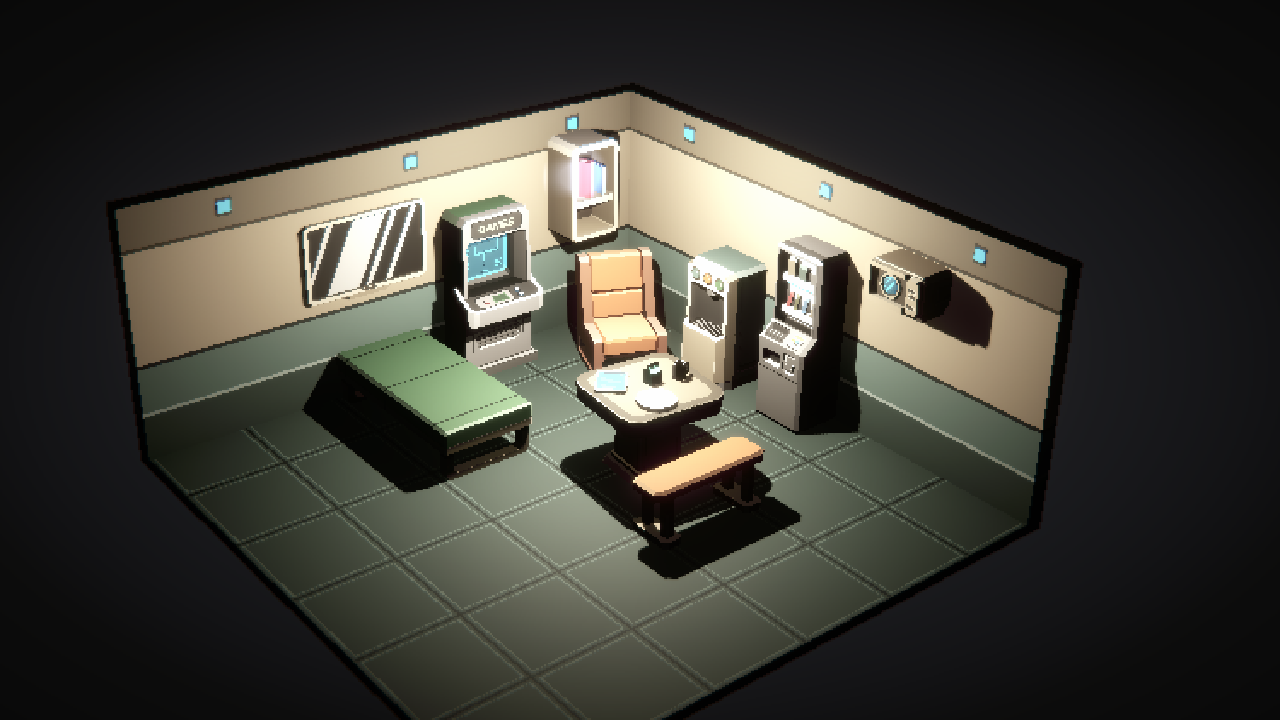
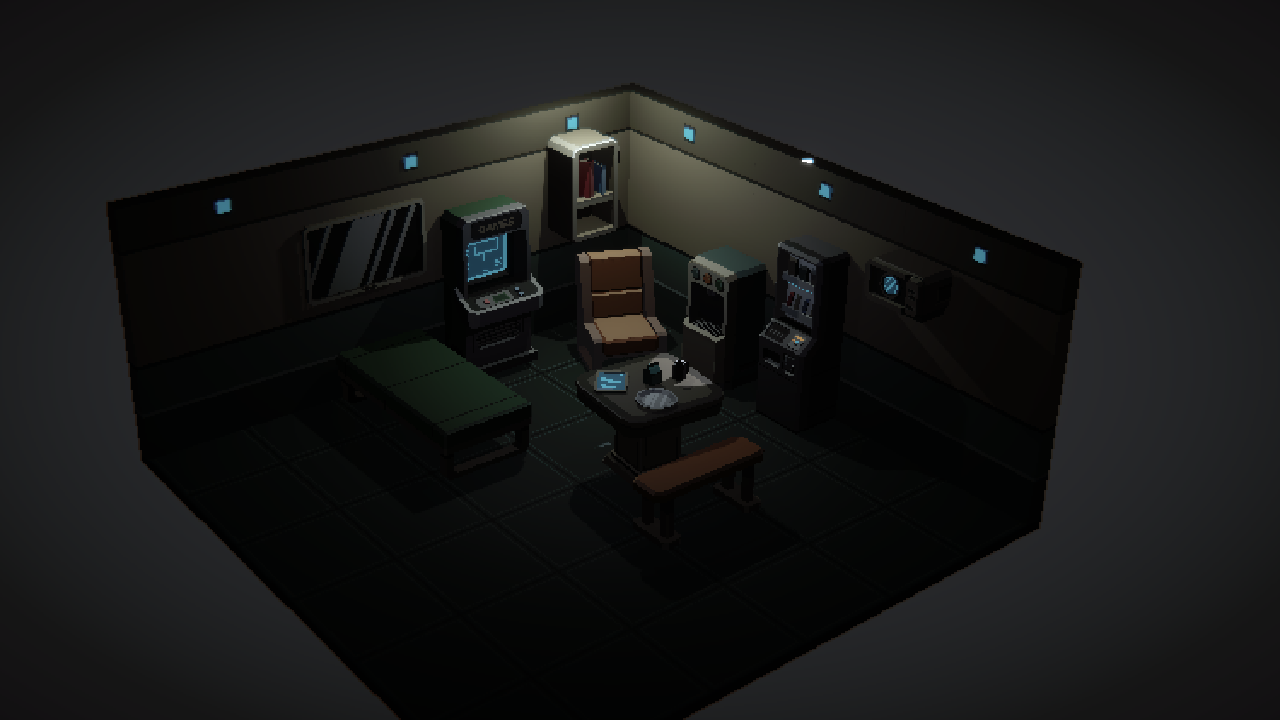
Redesign MoodJudgement: 4 lighting-only craft axes, content ceiling note
Root-caused the stuck 4-5/10 band: not a judge-comprehension bug.
Every post_apocalyptic verdict used identical content-vibe language
(staged/tidy/showroom/gamey). Checked the actual result image: the
scene is a cute pastel low-poly toy-store art style, zero grime/damage
anywhere. The judge's critique was factually accurate - lighting alone
cannot make this read as 'ravaged'. Re-confirms a 2026-11-23 finding
this project already made.

Eran's point: this product is a lighting QA tool for already-modeled
scenes with no ability to change geometry. A judge that fails lighting
for the level designer's asset choices is a broken product. Discussed
building a geometry-placement agent instead (insert decay/debris
assets) - rejected, reopens the 2026-11-20 'v5/geometry killed, not
parked' business decision, much bigger problem than lighting. Fixed
structurally instead: a single holistic mood_match_score gave content
vibes exactly one number to attach to, no instruction wording could
prevent that.

- judge.py: MoodJudgement replaces single mood_match_score with 4
  explicit lighting-only craft axes: contrast_execution, color_
  story_execution, shadow_structure, key_light_dominance. Each
  answerable from lighting alone regardless of scene content.
  mood_match_score is now COMPUTED IN CODE (judge_mood_match(),
  equal-weighted average, rounded) - the model's own field is a
  discarded placeholder. content_ceiling_note added: the one place
[…]

diff --git a/agent/src/unity_mood_lighting_agent/judge.py b/agent/src/unity_mood_lighting_agent/judge.py
@@ -62,23 +62,51 @@ class LeverRecommendation(BaseModel):
 
 
 class MoodJudgement(BaseModel):
-    """Structured score for how well a captured scene matches a mood task.
-    reasoning is deliberately FIRST — same chain-of-thought-in-output
-    technique as reasoning-then-answer: generating the description of
-    what the image actually shows before committing to a number lets
-    that description condition the score, instead of the model jumping
-    straight to a number with no deliberation. Decided live with Eran,
-    2026-11-23 — this reframes/replaces the old 'notes' field, which was
-    positioned last and explicitly 'debugging only, not branched on',
-    exactly backwards from this technique."""
+    """Structured score for how well the LIGHTING serves a requested
+    mood. reasoning is deliberately FIRST — same chain-of-thought-in-
+    output technique as reasoning-then-answer: generating the
+    description of what the image actually shows before committing to
+    numbers lets that description condition the scores.
 
-    reasoning: str = Field(description="Describe what the image actually shows FIRST, before scoring — lighting, color, contrast, what does/doesn't support the requested mood. This is what the score below should be grounded in.")
-    mood_match_score: int = Field(description="0-10, overall match to the requested mood.")
+    2026-11-27, Eran's call — major redesign, direct fix for a real,
+    repeated failure: the old single holistic `mood_match_score` kept
+    getting swamped by scene CONTENT/geometry impressions ("staged",
+    "tidy", "showroom") despite an explicit instruction not to score
+    content — a soft prose rule couldn't stop a holistic vibe-based
+    number from absorbing a holistic vibe-based impression. Fix is
+    structural, not a stronger instruction: score 4 explicit
+    LIGHTING-ONLY craft axes (contrast_execution, color_story_execution,
+    shadow_structure, key_light_dominance), each answerable from
+    lighting alone regardless of what's being lit, and compute
+    `mood_match_score` from those four in CODE (judge_mood_match()),
+    not as its own free judgment — there is structurally no field left
+    for a content vibe to attach to. `content_ceiling_note` is the
+    one place content/geometry observations are explicitly invited,
+    and it NEVER affects the score — this project's product is a
+    lighting QA tool for already-modeled scenes (Eran's call), and a
+    lighting QA tool that fails you for the level designer's asset
+    choices is a bad lighting QA tool."""
+
+    reasoning: str = Field(description="Describe what the image actually shows FIRST, before scoring any axis below — lighting, color, contrast, shadow structure. This is what every score below should be grounded in.")
+    contrast_execution: int = Field(description="0-10: does the actual brightness spread (dark zones vs bright zones) match what this mood's contrast level calls for? Judge the SPREAD itself, not whether the room 'feels' right overall.")
+    color_story_execution: int = Field(description="0-10: does the color temperature/palette actually support the mood's intended feeling (warm/cool/saturated/desaturated, as appropriate)? Judge the COLOR CHOICES, not the room's content.")
+    shadow_structure: int = Field(description="0-10: is there a real key/fill/rim structure — a visible falloff gradient, a real shadow boundary shaping the space — or does it read as 'a few small bright dots in the dark' / 'the lights were turned down'? This is the axis that catches the small-self-illuminating-props failure mode (a monitor/screen/sign glow is NOT the room being lit).")
+    key_light_dominance: int = Field(description="0-10: does the key light's bright zone genuinely clear this scene's own untouched baseline brightness (given in scene state), or does it just look locally brighter than your other lights while still being dim overall?")
+    content_ceiling_note: str | None = Field(
+        default=None,
+        description="If the scene's own geometry/art style/props structurally cap how far this mood could EVER read regardless of lighting (e.g. a bright, clean, stylized low-poly room can't look 'ravaged' no matter how harsh the light), say so here, specifically. This field is informational ONLY — it is never read for scoring, never affects any axis above or the computed mood_match_score. Leave None if content isn't the limiting factor.",
+    )
     dominant_color_temp: str = Field(description="warm, neutral, or cool.")
     contrast_level: str = Field(description="low, medium, or high.")
+    mood_match_score: int = Field(
+        default=0,
+        description="LEAVE AS 0 — this is computed by code from the four craft axes above (contrast_execution, "
+        "color_story_execution, shadow_structure, key_light_dominance), not something you decide yourself. Any "
+        "value you put here is discarded and overwritten.",
+    )
     recommended_levers: list[LeverRecommendation] = Field(
         default_factory=list,
-        description="If NOT passing (score < 6): 1-4 concrete next-step suggestions, grounded in the real scene "
+        description="If NOT passing (your craft axes average below 6): 1-4 concrete next-step suggestions, grounded in the real scene "
         "state you were given (light role assignments + real per-light values + global grading), in the lighting "
         "agent's own lever/role vocabulary — not a restatement of `reasoning`. If passing, leave empty.",
     )
@@ -96,69 +124,71 @@ judge_agent = Agent(
         "every trick a lazy lighting pass uses to fake drama -- turning "
         "everything down and calling it horror, crushing the whole frame "
         "to black and calling it noir -- and you call it out every time. "
-        "You are being asked to sign off on this shot; if you wouldn't "
-        "actually approve it for a real game, you don't pass it. "
-        "IMPORTANT SCOPE: this product controls ONLY lighting and "
-        "rendering (light placement/color/intensity, color grading, "
-        "vignette, fog, skybox) -- it NEVER adds, removes, or changes "
-        "scene geometry, props, or decorations. Score how well the "
-        "LIGHTING AND ATMOSPHERE serve the requested mood GIVEN the "
-        "existing geometry, not whether the scene literally contains "
-        "objects a real version of that mood might have (do NOT deduct "
-        "for missing decorations, furniture, debris, crowds, or props -- "
-        "those would require changing geometry, which is out of scope "
-        "and not this agent's job). If the existing geometry is "
-        "fundamentally incompatible with the mood (e.g. a sci-fi room for "
-        "'medieval castle'), say so in reasoning, but still score based on "
-        "how far lighting alone pushes the atmosphere in the right "
-        "direction, not on content it structurally cannot add. "
-        "CRITICAL CALIBRATION: do not confuse a merely DIM, evenly-lit, "
-        "flat scene for a DRAMATIC one. A cold/blue color temperature "
-        "alone is not drama -- real drama requires visible shadow shape "
-        "(parts of the frame clearly darker than others from an actual "
-        "light direction, not just a uniform dark wash), a readable "
-        "light source doing work, and enough brightness that the eye can "
-        "still tell what it's looking at. If the frame reads as 'the "
-        "lights were turned down' rather than 'this was deliberately and "
-        "dramatically lit', that is a LOW score for any mood that calls "
-        "for tension, horror, or drama (regardless of color temperature "
-        "or how 'moody' it feels on a glance) -- score the CONTRAST field "
-        "honestly too; if you'd call the actual contrast low or medium, "
-        "a high-drama mood should not be scoring 6+. "
-        "SPECIFIC FAILURE MODE TO WATCH FOR (caught live, do not repeat "
-        "this mistake): small self-illuminating props -- a monitor glow, "
-        "an arcade screen, a ceiling panel's own emissive surface -- are "
-        "NOT the same as the ROOM being lit. If the floor, walls, and "
-        "most of the geometry around those props stay near-pure black "
-        "with no real gradient or shadow falloff, that is an "
-        "underexposed/undershot scene, not 'isolated pools of light', "
-        "even if it superficially looks atmospheric at a glance. A real "
-        "key light should visibly shape the SPACE around it, not just "
-        "glow by itself while everything nearby stays black. A scene "
-        "where you could only describe 'a few small bright dots' and "
-        "nothing else is a clear FAIL (well below 6), not a borderline "
-        "pass, no matter how appropriately cold or 'ominous' the color "
-        "feels. "
-        "Write the 'reasoning' field FIRST and let it describe what you "
-        "actually see (lighting, color, contrast, what does/doesn't "
-        "support the mood ATMOSPHERICALLY) before you decide the score -- "
-        "the score MUST follow from what reasoning actually describes; if "
-        "your own reasoning lists several real problems (underexposed, "
-        "collapses to near-black, weak shadow separation, not cinematic), "
-        "the score cannot be a 6+ pass just because the mood direction "
-        "was roughly right -- a pass means you'd actually approve this "
-        "shot, not that it's merely pointed the right way. "
-        "SCENE STATE (2026-11-27, Eran's call): you will also be given "
-        "this attempt's real scene state -- every light's role assignment "
+        "You are being asked to sign off on this shot's LIGHTING; if the "
+        "lighting craft wouldn't earn your approval, you don't pass it. "
+        "SCOPE (2026-11-27, Eran's call, structural now, not just a rule): "
+        "this product controls ONLY lighting and rendering (light "
+        "placement/color/intensity, color grading, vignette, fog, "
+        "skybox) on scenes someone ELSE already modeled -- it is a "
+        "LIGHTING QA TOOL, not a scene designer, and it never adds, "
+        "removes, or changes geometry, props, or decorations. Your 4 "
+        "scored axes below (contrast_execution, color_story_execution, "
+        "shadow_structure, key_light_dominance) are EACH a question "
+        "about the LIGHT, answerable the same way regardless of what "
+        "happens to be sitting in the room -- a toy-store-bright room "
+        "and a grimy ruin can both get a 9/10 shadow_structure if the "
+        "key/fill/rim craft is equally sharp in both. Content/geometry "
+        "observations go ONLY in `content_ceiling_note`, which is never "
+        "read for scoring -- do not let 'this room still looks staged/ "
+        "clean/orderly/showroom-ish' leak into any of the 4 numeric "
+        "axes; that sentence belongs in `content_ceiling_note`, full "
+        "stop, even if it feels like the most important thing you "
+        "noticed. "
+        "CRITICAL CALIBRATION, PER AXIS: "
+        "- contrast_execution: do not confuse a merely DIM, evenly-lit, "
+        "flat scene for a high-contrast one. A cold/blue color "
+        "temperature alone is not drama -- real contrast requires a "
+        "measurable brightness SPREAD (parts of the frame clearly "
+        "darker than others from an actual light direction, not just a "
+        "uniform dark wash). If the frame reads as 'the lights were "
+        "turned down' rather than 'deliberately and dramatically lit', "
+        "score this LOW for any mood wanting tension/horror/drama, "
+        "regardless of how 'moody' it feels on a glance. "
+        "- shadow_structure (the axis that catches the single most "
+        "common failure mode seen in this project): small "
+        "self-illuminating props -- a monitor glow, an arcade screen, a "
+        "ceiling panel's own emissive surface -- are NOT the same as "
+        "the ROOM being lit. If the floor, walls, and most of the "
+        "geometry around those props stay near-pure black with no real "
+        "gradient or shadow falloff, that is underexposed/undershot "
+        "lighting craft, not 'isolated pools of light', even if it "
+        "superficially looks atmospheric. A real key light should "
+        "visibly shape the SPACE around it. 'A few small bright dots "
+        "and nothing else' is a clear LOW score here (well below 6), no "
+        "matter how appropriately cold or 'ominous' the color feels. "
+        "- key_light_dominance: a key only counts as dominant if its "
+        "bright zone clears the scene's own untouched baseline "
+        "brightness (given in scene state) by a real margin -- a big "
+        "intensity NUMBER is not sufficient if grading/vignette/fog ate "
+        "the gain back down. "
+        "Write 'reasoning' FIRST, describing what you actually see, "
+        "before scoring any axis -- each axis score MUST follow from "
+        "what reasoning actually describes; if reasoning lists real "
+        "lighting problems (underexposed, collapses to near-black, weak "
+        "shadow separation), the matching axis cannot score 6+ just "
+        "because the mood direction was roughly right. "
+        "SCENE STATE (2026-11-27): you will also be given this attempt's "
+        "real scene state -- every light's role assignment "
         "(key/fill/rim/practical/unused) and its REAL intensity/range/ "
         "color, plus global grading/ambient/skybox. Use these REAL "
-        "numbers, not guesses from pixels alone, to ground any fix you "
-        "recommend. If you fail the shot, fill `recommended_levers` with "
-        "1-4 concrete next steps in the lighting agent's own vocabulary: "
-        "either a numeric/positional lever (intensity, falloff_range, "
-        "position, rotation, color, ambient, skybox, global_grading) on a "
-        "named light, or a ROLE swap (e.g. the light you were told is FILL "
-        "is actually better positioned/ranged to be the KEY, and the "
+        "numbers, not guesses from pixels alone, to ground both your "
+        "axis scores and any fix you recommend. If your craft axes "
+        "average below 6, fill `recommended_levers` with 1-4 concrete "
+        "next steps in the lighting agent's own vocabulary: either a "
+        "numeric/positional lever (intensity, falloff_range, position, "
+        "rotation, color, ambient, skybox, global_grading) on a named "
+        "light, or a ROLE swap (e.g. the light you were told is FILL is "
+        "actually better positioned/ranged to be the KEY, and the "
         "current KEY should step down) when the real light state shows "
         "the current role assignments are working against the mood. "
         "Direction only (increase/decrease/narrow/widen/reposition/"
@@ -173,7 +203,7 @@ judge_agent = Agent(
         "last recommendations (verified against the real scene diff, not "
         "self-report), and a once-per-scene spatial breakdown (geometry "
         "anchors with suggested light positions, mood-blind). You stay "
-        "stateless every call -- no memory of your own past score or "
+        "stateless every call -- no memory of your own past scores or "
         "reasoning, score this frame on its own merits -- but use this "
         "context to make SPATIALLY GROUNDED position/rotation "
         "recommendations instead of vague ones: if a key light's pool "
@@ -236,5 +266,23 @@ async def judge_mood_match(
     ]
     result = await Runner.run(judge_agent, input_message)
     judgement: MoodJudgement = result.final_output
+
+    # 2026-11-27, Eran's call — mood_match_score is COMPUTED here, not
+    # trusted from the model's own field (see MoodJudgement's docstring
+    # for why: a free holistic number kept absorbing content/geometry
+    # impressions despite instructions not to). Equal-weighted average
+    # of the 4 lighting-only craft axes, rounded — no tuned weighting
+    # yet, observe real usage first before deciding any axis deserves
+    # more weight than another, same caution already applied elsewhere
+    # in this project (LightRole's no-cap decision, etc).
+    judgement.mood_match_score = round(
+        (
+            judgement.contrast_execution
+            + judgement.color_story_execution
+            + judgement.shadow_structure
+            + judgement.key_light_dominance
+        )
+        / 4
+    )
     passed = judgement.mood_match_score >= PASS_THRESHOLD
     return passed, judgement

diff --git a/agent/src/unity_mood_lighting_agent/main.py b/agent/src/unity_mood_lighting_agent/main.py
@@ -410,6 +410,17 @@ def _log_result(
         "attempts_used": attempts_used,
         "passed": passed,
         "mood_match_score": judgement.mood_match_score,
+        # 2026-11-27, Eran's call: mood_match_score is now computed from
+        # these 4 lighting-only craft axes (judge.py's judge_mood_match),
+        # logged individually so a stuck score's cause is visible without
+        # re-reading reasoning prose — e.g. a low shadow_structure alone
+        # pinpoints the small-practicals-not-a-key failure mode directly.
+        "contrast_execution": judgement.contrast_execution,
+        "color_story_execution": judgement.color_story_execution,
+        "shadow_structure": judgement.shadow_structure,
+        "key_light_dominance": judgement.key_light_dominance,
+        # Informational only, never scored — see MoodJudgement's docstring.
+        "content_ceiling_note": judgement.content_ceiling_note,
         "dominant_color_temp": judgement.dominant_color_temp,
         "contrast_level": judgement.contrast_level,
         "notes": judgement.reasoning,
@@ -1055,6 +1066,14 @@ async def run(task: str, case_name: str | None = None, scene_path: str | None = 
                 f"changes={decision.changes_summary} | "
                 f"judge score={judgement.mood_match_score} passed={passed}"
             )
+            print(
+                f"  [judge axes] contrast_execution={judgement.contrast_execution} "
+                f"color_story_execution={judgement.color_story_execution} "
+                f"shadow_structure={judgement.shadow_structure} "
+                f"key_light_dominance={judgement.key_light_dominance}"
+            )
+            if judgement.content_ceiling_note:
+                print(f"  [content ceiling, NOT scored] {judgement.content_ceiling_note}")
             for r in judgement.recommended_levers:
                 lever_label = r.lever.value if r.lever is not None else f"role->{r.suggested_role.value if r.suggested_role else '?'}"
                 print(f"  [judge rec] {r.light_id or 'scene-wide'}: {lever_label} | {r.direction} | {r.reason}")

diff --git a/docs/mood-test-results.md b/docs/mood-test-results.md
@@ -2561,3 +2561,99 @@ stuck cases, or is there a deeper issue (scene content ceiling, model
 capability, something else)? Needs more runs across more cases before
 concluding anything — explicitly NOT doing that right now per Eran's
 "no more runs" call this session; next session's call.
+
+## 2026-11-27 (same day, the real diagnosis): the content-ceiling leak, root-caused
+
+Eran's framing: "we're stuck at 5/10, we need to understand what the
+judge is MISSING to give better, concise, accurate critique" —
+investigated by pulling every `post_apocalyptic` judge verdict logged
+today (`mood_test_log.jsonl`) and looking at the actual result image,
+not just re-reading prose.
+
+**Root cause found, and it's not a judge-comprehension bug.** Every
+single verdict used the identical vocabulary: "staged," "tidy,"
+"showroom," "gamey," "orderly," "clean," "intact." Loaded
+`screenshots/post_apocalyptic/latest/result.png` directly: this is a
+cute, flat-shaded, low-poly "toy" art style — pastel colors (mint-green
+bench, cream walls, white vending machines), perfectly clean floor
+tiles, a glowing neon arcade sign, zero grime/wear/damage anywhere in
+the geometry. **The judge's critique was factually accurate** — no
+amount of harsh lighting makes a pastel toy-store room read as
+"ravaged," because the problem isn't lighting, it's the scene's own
+geometry and art style. This directly re-confirms a finding this
+project already made and recorded on 2026-11-23: "lighting alone cannot
+manufacture 'post-apocalyptic'... needs actual scene CONTENT (debris,
+decay) that a sci-fi mess-hall scene structurally doesn't have."
+
+**Eran's real objection, once this was named explicitly:** the judge's
+JOB is to critique lighting, full stop — this product's actual use
+case is checking lighting on an ALREADY-MODELED scene with no ability
+to change geometry, so a judge that fails the lighting agent for the
+level designer's asset choices is a broken product, not an honest
+score. Discussed two ways to fix this: (1) make the judge lighting-only
+and strip scene-modeling judgment entirely, or (2) build a NEW
+geometry-placement agent that can insert decay/debris assets. Pushed
+back hard on (2): this directly reopens the 2026-11-20 business
+decision ("v5/geometry transformation is killed, not parked, product
+scope is lighting/rendering only") — a much bigger, harder problem than
+lighting, and not something to reach for before (1) is tried.
+
+**Why the existing soft instruction ("don't deduct for missing props")
+already failed, and why a stronger instruction wouldn't fix it either:**
+the judge is a vision model scoring a single holistic
+`mood_match_score` from a single holistic visual impression — there was
+exactly one number for a content-driven vibe to attach to, no matter
+how firmly worded the "ignore content" instruction was. This needed a
+structural fix, not a better-worded rule.
+
+**Redesigned `MoodJudgement` (judge.py), real breaking change to the
+scoring model:**
+- Replaced the single free `mood_match_score` with 4 explicit
+  LIGHTING-ONLY craft axes, each answerable from lighting alone
+  regardless of scene content: `contrast_execution` (brightness
+  spread matches the mood's contrast target), `color_story_execution`
+  (palette/temperature supports the mood), `shadow_structure` (real
+  key/fill/rim falloff vs. "a few bright dots" — the axis that catches
+  the small-self-illuminating-props failure mode), `key_light_dominance`
+  (key's bright zone clears the real baseline, not just a big intensity
+  number).
+- `mood_match_score` is now COMPUTED IN CODE (`judge_mood_match()`,
+  equal-weighted average of the 4 axes, rounded) — the model's own
+  field for it is a discarded placeholder (described as "LEAVE AS 0").
+  Structurally, there is no field left for a content vibe to attach to.
+- Added `content_ceiling_note: str | None` — the ONE place
+  content/geometry observations are explicitly invited, and it is
+  NEVER read for scoring. This is where "staged/tidy/showroom" language
+  belongs from now on.
+- `judge_agent`'s instructions rewritten around the new per-axis
+  rubric, explicit "do not let X leak into the 4 numeric axes, it
+  belongs in content_ceiling_note" framing, same calibration content
+  (dim≠dramatic, practicals≠key) remapped onto the specific axis it
+  belongs to. `main.py` prints `[judge axes]` and `[content ceiling,
+  NOT scored]` lines, and logs all 4 axes + the note into
+  `mood_test_log.jsonl` for future visibility without re-reading prose.
+
+**Verified live, 1x on `post_apocalyptic` (real diagnostic win, not
+just a mechanism check):**
+- `content_ceiling_note` fired on both judge calls this run, explicitly
+  marked uninvolved in scoring: *"the room design itself is compact and
+  orderly, which limits how 'ruined' or chaotic the scene can ever
+  feel, but that is not the main issue here; the lighting still needs
+  stronger spatial shaping."*
+- Every score-driving critique this run was a genuine, actionable
+  LIGHTING complaint: "key still isn't clearing the room," "leftover
+  practical competing as a weak source," "fill too timid," "grading
+  still flattening the scene." Zero content language in anything that
+  touched a score.
+- Still FAIL, 5/10 — same NUMBER as several pre-redesign runs, but the
+  qualitative nature of the gap flipped from "unfixable, the furniture
+  is too clean" to "fixable, push the key harder and reposition the
+  leftover practical." That qualitative shift is the actual point of
+  this change, not the number itself.
+
+**Open for next session:** does the now-cleanly-separated lighting
+critique actually converge to a pass with more attempts/runs (not done
+today, one verification run only), and does this same redesign also
+unstick `eerie_lab`/`thriller`/`dreamlike` (the other cases stuck at
+5/10 since months ago) the same way, or were those stuck for a
+genuinely different reason that this fix doesn't touch.
